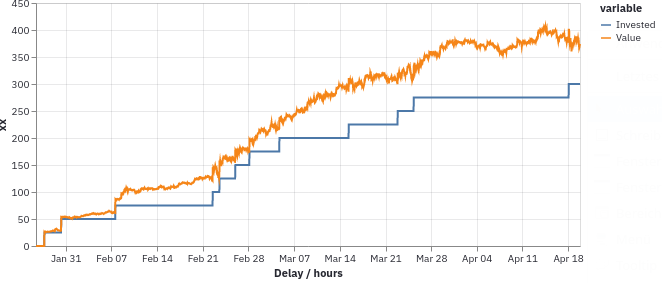
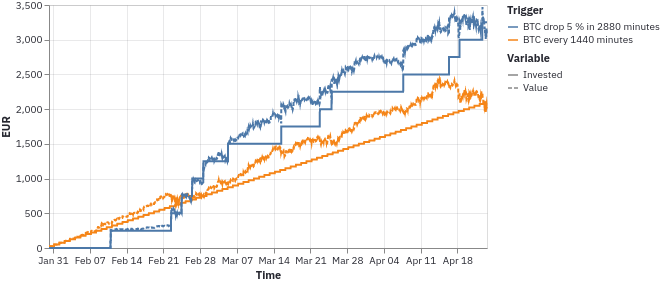
Analyze triggers independently

diff --git a/src/vigilant_crypto_snatch/streamlit_ui.py b/src/vigilant_crypto_snatch/streamlit_ui.py
@@ -60,19 +60,19 @@ def sub_drop_survey(sidebar_settings):
 
 def make_trigger_ui(session, source, market, sidebar_settings, i):
     trigger_type = st.radio("Trigger type", ["Drop", "Time"], key=f"trigger_type_{i}")
-    trigger_delay = st.slider(
-        "Delay / hours",
-        min_value=1,
-        max_value=14 * 24,
-        value=24,
-        key=f"trigger_delay_{i}",
-    )
     trigger_volume = st.number_input(
         f"Volume / {sidebar_settings.fiat}",
         min_value=25,
         max_value=None,
         value=25,
         key=f"trigger_volume_{i}",
+    )
+    trigger_delay = st.slider(
+        "Delay / hours",
+        min_value=1,
+        max_value=14 * 24,
+        value=24,
+        key=f"trigger_delay_{i}",
     )
 
     if trigger_type == "Drop":
@@ -128,12 +128,12 @@ def sub_trigger_simulation(sidebar_settings):
                 make_trigger_ui(session, source, market, sidebar_settings, i)
             )
 
-    st.markdown('# Run')
+    st.markdown("# Run")
 
     if not st.button("Go!"):
         st.stop()
 
-    st.markdown('Simulating triggers …')
+    st.markdown("Simulating triggers …")
     simulation_progress_bar = st.progress(0.0)
 
     trades = simulate_triggers(
@@ -149,61 +149,70 @@ def sub_trigger_simulation(sidebar_settings):
         st.markdown("This trigger did not execute once.")
         st.stop()
 
-    st.markdown('Accumulating value …')
+    st.markdown("Accumulating value …")
     cumsum_progress_bar = st.progress(0.0)
 
-    value = pd.DataFrame(
-        dict(
-            datetime=sidebar_settings.data["datetime"],
-            cumsum_coin=0.0,
-            cumsum_fiat=0.0,
-            value_fiat=0.0,
-        )
-    )
-
+    result = []
     for i, elem in enumerate(sidebar_settings.data["datetime"]):
-        selection = trades["timestamp"] <= elem
-        value.loc[i, "cumsum_coin"] = np.sum(trades["volume_coin"][selection])
-        value.loc[i, "cumsum_fiat"] = np.sum(trades["volume_fiat"][selection])
-        value.loc[i, "value_fiat"] = (
-            value.loc[i, "cumsum_coin"] * sidebar_settings.data.loc[i, "close"]
-        )
+        for t in active_triggers:
+            sel1 = trades["timestamp"] <= elem
+            sel2 = trades["trigger_name"] == t.get_name()
+            selection = sel1 & sel2
+            cumsum_coin = np.sum(trades["volume_coin"][selection])
+            cumsum_fiat = np.sum(trades["volume_fiat"][selection])
+            value_fiat = cumsum_coin * sidebar_settings.data.loc[i, "close"]
+            result.append(
+                dict(
+                    datetime=elem,
+                    trigger_name=t.get_name(),
+                    cumsum_coin=cumsum_coin,
+                    cumsum_fiat=cumsum_fiat,
+                    value_fiat=value_fiat,
+                )
+            )
         cumsum_progress_bar.progress((i + 1) / len(sidebar_settings.data["datetime"]))
+    value = pd.DataFrame(result)
 
     st.markdown("# Summary")
-    num_trigger_executions = len(trades)
-    cumsum_fiat = value["cumsum_fiat"].iat[-1]
-    cumsum_coin = value["cumsum_coin"].iat[-1]
-    value_fiat = value["value_fiat"].iat[-1]
-    gain = value_fiat / cumsum_fiat - 1
-    period = (
-        sidebar_settings.data["datetime"].iat[-1]
-        - sidebar_settings.data["datetime"].iat[0]
-    ).days
-    yearly_gain = np.power(gain + 1, 365 / period) - 1
-    st.markdown(
-        f"""
-    - {period} days simulated
-    - {num_trigger_executions} trades
-    - {cumsum_fiat:.2f} {sidebar_settings.fiat} invested
-    - {cumsum_coin:.8f} {sidebar_settings.coin} acquired
-    - {value_fiat:.2f} {sidebar_settings.fiat} value
-    - {gain*100:.1f} % gain in {period} days
-    - {yearly_gain*100:.1f} % estimated yearly gain
-    """
-    )
+
+    for t in active_triggers:
+        st.markdown(f"## {t.get_name()}")
+        sub_trades = trades[trades["trigger_name"] == t.get_name()]
+        sub_values = value[value["trigger_name"] == t.get_name()]
+        num_trigger_executions = len(sub_trades)
+        cumsum_fiat = sub_values["cumsum_fiat"].iat[-1]
+        cumsum_coin = sub_values["cumsum_coin"].iat[-1]
+        value_fiat = sub_values["value_fiat"].iat[-1]
+        gain = value_fiat / cumsum_fiat - 1
+        period = (
+            sidebar_settings.data["datetime"].iat[-1]
+            - sidebar_settings.data["datetime"].iat[0]
+        ).days
+        yearly_gain = np.power(gain + 1, 365 / period) - 1
+        st.markdown(
+            f"""
+        - {period} days simulated
+        - {num_trigger_executions} trades
+        - {cumsum_fiat:.2f} {sidebar_settings.fiat} invested
+        - {cumsum_coin:.8f} {sidebar_settings.coin} acquired
+        - {value_fiat:.2f} {sidebar_settings.fiat} value
+        - {gain*100:.1f} % gain in {period} days
+        - {yearly_gain*100:.1f} % estimated yearly gain
+        """
+        )
 
     value_long = value.rename(
         {"cumsum_fiat": "Invested", "value_fiat": "Value"}, axis=1
-    ).melt(["datetime"], ["Invested", "Value"])
+    ).melt(["datetime", "trigger_name"], ["Invested", "Value"])
 
     gain_chart = (
         alt.Chart(value_long)
         .mark_line()
         .encode(
-            x=alt.X("datetime", title="Delay / hours"),
+            x=alt.X("datetime", title="Time"),
             y=alt.Y("value", title=f"{sidebar_settings.fiat}"),
-            color="variable",
+            strokeDash=alt.StrokeDash("variable", title="Variable"),
+            color=alt.Color("trigger_name", title="Trigger"),
         )
     )
 
@@ -215,7 +224,12 @@ def sub_trigger_simulation(sidebar_settings):
 
 
 def simulate_triggers(
-    data: pd.DataFrame, coin: str, fiat: str, active_triggers, session, progress_callback = lambda n: None
+    data: pd.DataFrame,
+    coin: str,
+    fiat: str,
+    active_triggers,
+    session,
+    progress_callback=lambda n: None,
 ) -> pd.DataFrame:
     for i in data.index:
         row = data.loc[i]
@@ -231,7 +245,7 @@ def simulate_triggers(
                         pass
             except historical.HistoricalError as e:
                 pass
-        progress_callback((i+1) / len(data))
+        progress_callback((i + 1) / len(data))
 
     all_trades = session.query(datamodel.Trade).all()
     trade_df = pd.DataFrame([trade.to_dict() for trade in all_trades])

diff --git a/docs/running.md b/docs/running.md
@@ -73,7 +73,7 @@ fileWatcherType = "none"
 
 Here you can just see the prices that we got from the historical API. This is nothing special, just a plot.
 
-![](price-plot.png)
+> ![](price-plot.png)
 
 These plots are slightly interactive, so you can make them fullscreen and they will render with higher quality.
 
@@ -81,7 +81,7 @@ These plots are slightly interactive, so you can make them fullscreen and they w
 
 You simulate triggers on historical data. Just select the type of trigger and tune the parameters to your liking.
 
-![](trigger-parameters.png)
+> ![](trigger-parameters.png)
 
 It will give you a summary which looks like this:
 
@@ -95,11 +95,11 @@ It will give you a summary which looks like this:
 
 You will also get a plot which shows the amount of money you have invested as well as the value of the crypto assets aquired. With this you can get a sense on the gains.
 
-![](trigger-plot.png)
+> ![](trigger-plot.png)
 
 You also have a table with the trades that were performed.
 
-![](trigger-table.png)
+> ![](trigger-table.png)
 
 In case the trigger has not been executed once, you will of course get a message.
 
@@ -109,11 +109,11 @@ Fiddling with individual triggers can be informative, but a more meta view could
 
 You can control the ranges of both with two-way sliders.
 
-![](drop-sliders.png)
+> ![](drop-sliders.png)
 
 Each time such a trigger is executed a fixed unit of fiat currency is invested. At the end of the time period the amount of crypto currency is normalized by the amount of fiat currency spent. This will show the most efficient triggers. It doesn't show how often these triggers have been used, or how much crypto currency you will have in the end.
 
-![](drop-heatmap.png)
+> ![](drop-heatmap.png)
 
 In the resulting heat map you can see colored areas where the most gains are in a dark red. In regions where the trigger has never been executed, you will just see black. These regions indicate that there was no such drop in the period looked at.
 
